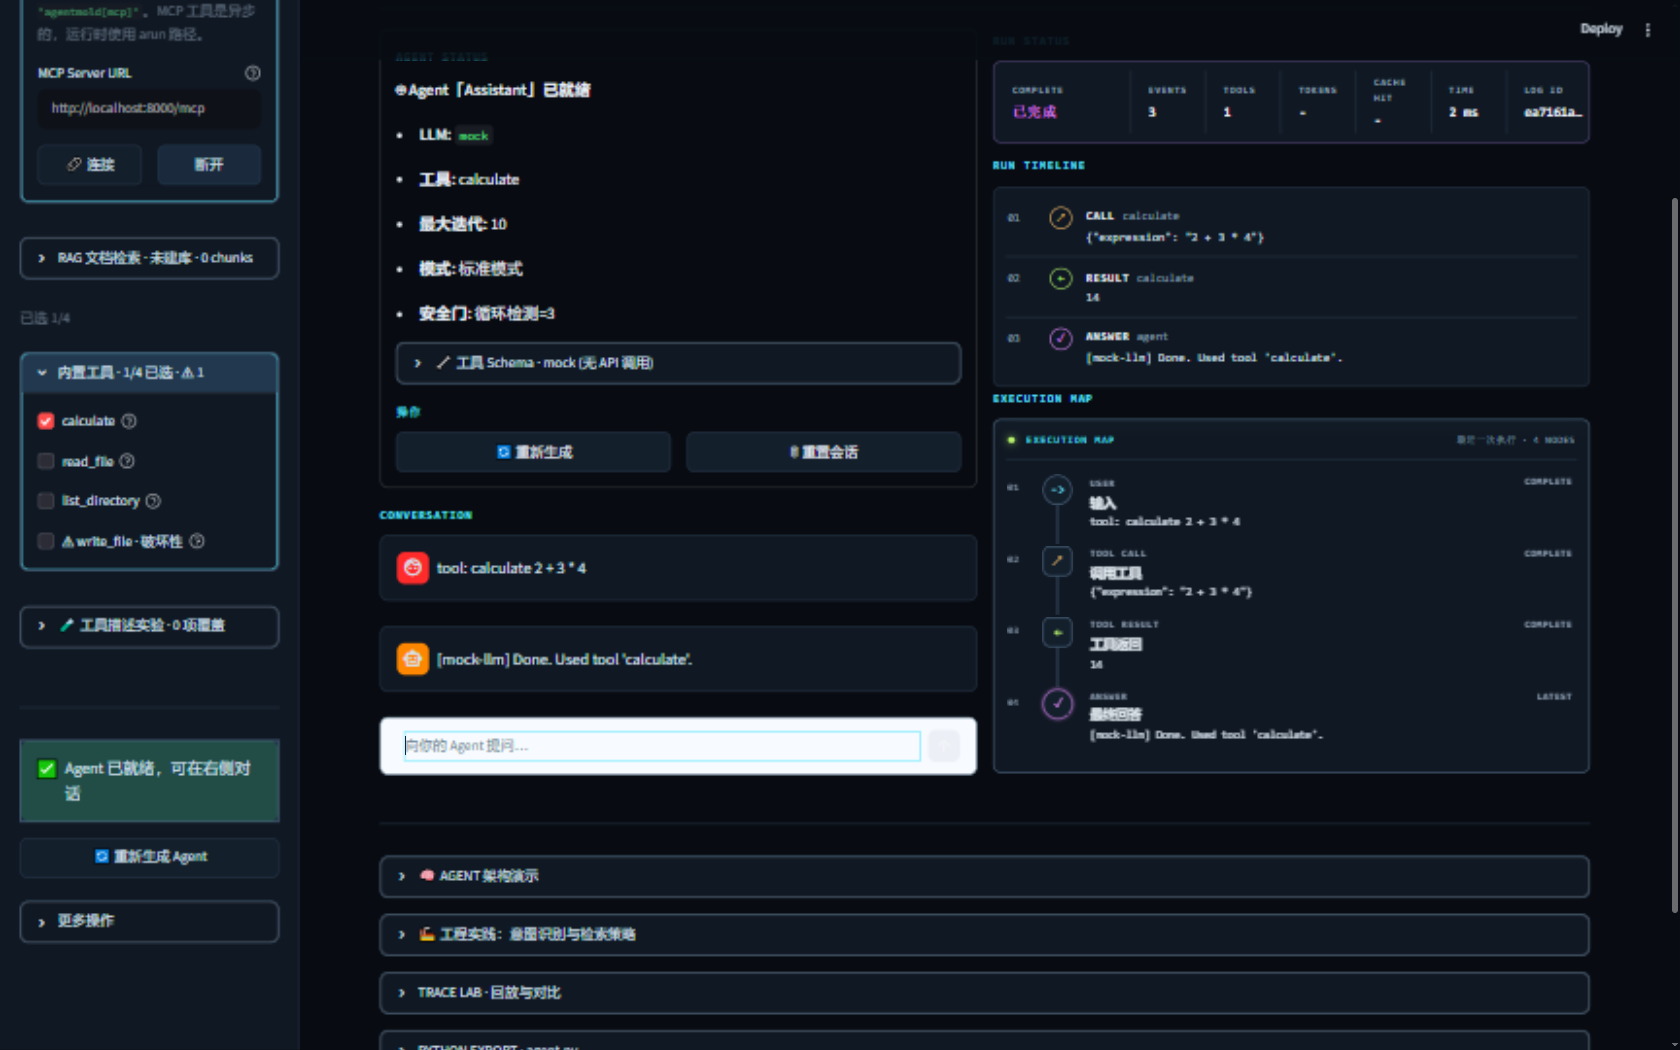
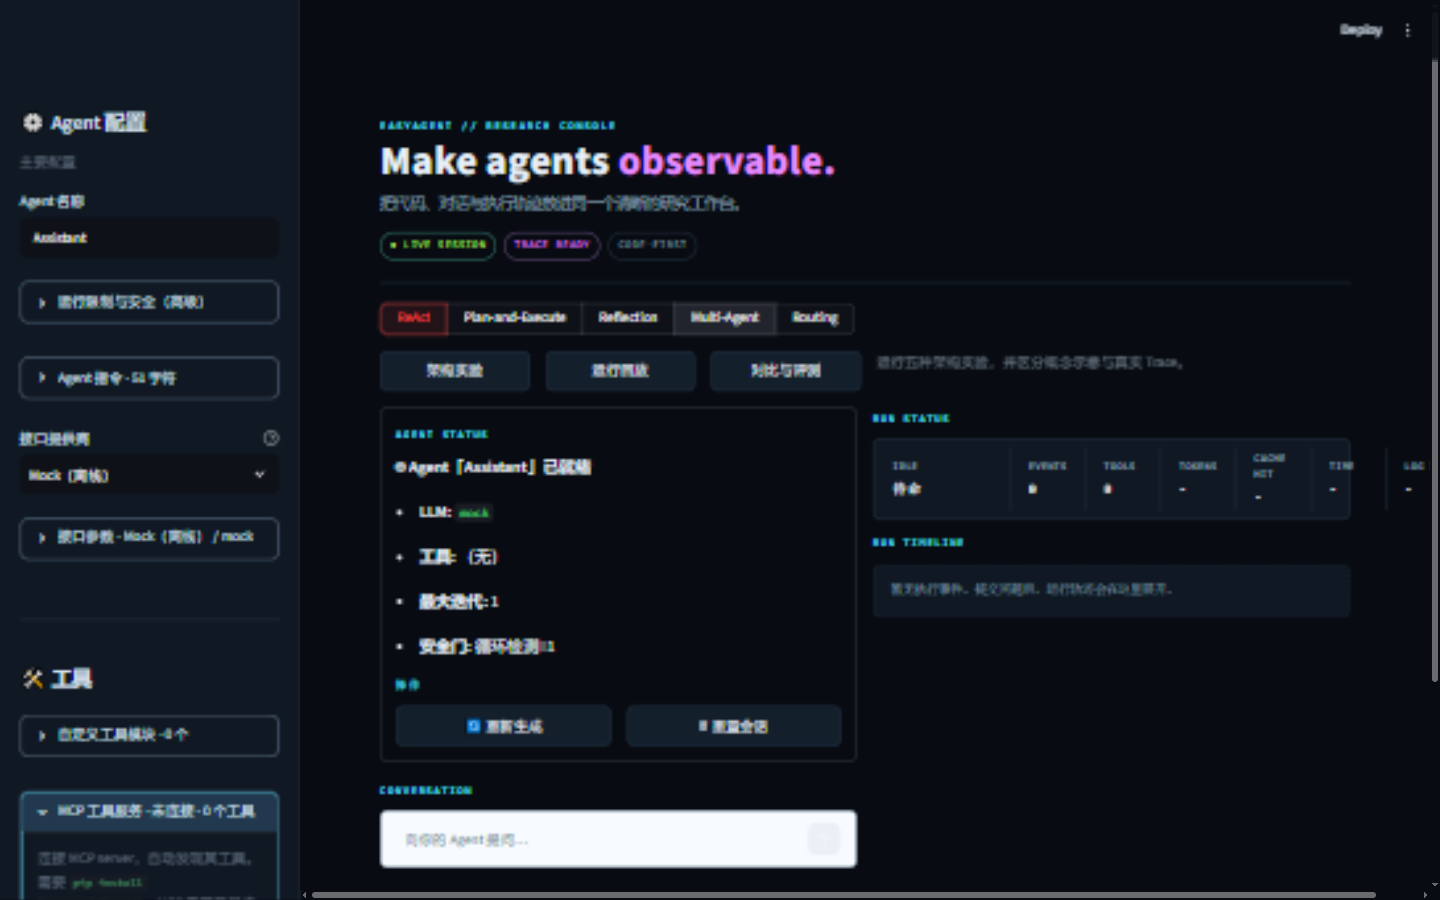
docs(release): document 0.7.0 migration

diff --git a/docs/api.md b/docs/api.md
@@ -53,9 +53,10 @@ The event types are `text_delta`, `tool_call`, `tool_result`, `answer`,
 `approval_request`, and `loop_detected`. Durable Trace v2 events include a one-based model
 `round`. Tool events also include a one-based `call_index` and an internal `execution_id`
 that associates the model request with its result even when the provider call ID is absent.
-`tool_result.status` distinguishes `success`, `error`, and `refused`, with `duration_ms` and
-an optional `error_type`. Existing `id`, `name`, `arguments`, and `content` fields retain their
-original meanings.
+`tool_result.status` currently emits `success`, `error`, or `refused`, with `duration_ms` and
+an optional `error_type`. The public type reserves `policy_denied`, `timeout`, and `cancelled`
+for adapters that can report those outcomes; the core Agent does not currently produce them.
+Existing `id`, `name`, `arguments`, and `content` fields retain their original meanings.
 
 `text_delta` is optional and means a provider
 text chunk, not necessarily one token. Delta events are not stored in `AgentTrace`; the
@@ -193,9 +194,13 @@ for later analysis:
 trace = agent.last_trace
 if trace is not None:
     trace.to_jsonl("runs/experiment.jsonl")
+    trace.export_family("runs/family.jsonl")
 ```
 
-Trace model configuration is redacted by key name for common credentials. Usage counters
+`export_family()` writes the selected parent and all observed descendant traces in parent-first
+order. The JSONL remains compatible with the visual importer; direct runs simply export one run.
+Trace model configuration and export payloads are recursively sanitized for credential keys,
+URL credentials, authorization values, and known secret echoes. Usage counters
 are best-effort because providers expose different response metadata.
 Trace headers also contain the user input, Agent name, and instructions so the visual lab
 can compare prompt and configuration changes. Open the top-level **运行回放** view to import

diff --git a/docs/architectures.md b/docs/architectures.md
@@ -54,8 +54,9 @@ answer. The concept diagram's decision node is not inserted into that trace.
 ## Plan-and-Execute
 
 Split the work into two phases: a **Planner** Agent produces an ordered list of
-steps, then a **Worker** Agent (or the same Agent) executes each step.  This is
-just two `Agent.run()` calls connected by a `for` loop.
+steps, then fresh **Worker** Agents execute each step and a **Synthesizer** combines their
+results. The teaching runner uses five `Agent.run()` calls for its fixed three-step plan,
+connected by an ordinary `for` loop.
 
 ```python
 from agentmold.visual.teaching import run_plan_execute_experiment
@@ -153,7 +154,23 @@ The visual lab uses two deliberately separate modules:
   are prescribed and must not be interpreted as task-solving behavior.
 
 Multi-Agent completeness is an observed fact: a run counts as full collaboration only when
-both specialist tool calls and their correlated child traces exist.
+both specialist tool calls have successful `tool_result` events and both correlated child traces
+finish with `status="completed"`. Missing or failed specialists produce a `partial` experiment.
+
+`TeachingExperiment` JSON uses `experiment_version=1` and records `status` as `completed`,
+`partial`, or `failed`, plus an optional `error`. Live runner functions and `ProgressEvent` remain
+experimental Python APIs even though the visual teaching workflow is shipped and tested.
+
+A downloaded live `example.py` reads the full model configuration from
+`EASYAGENT_LLM_CONFIG`. For example, after installing `agentmold[openai]`:
+
+```bash
+export EASYAGENT_LLM_CONFIG='{"provider":"openai","model":"MODEL_ID","api_key":"..."}'
+python example.py
+```
+
+Keep that environment variable out of shell history and source control. The deterministic export
+needs no provider extra, credential, or network call.
 
 ---
 

diff --git a/docs/capabilities.md b/docs/capabilities.md
@@ -24,7 +24,8 @@ framework than the package provides.
 | Memory | Shipped | Short-term `Memory` is core; named `VectorMemory` collections are an optional dependency. |
 | Trace and evaluation | Shipped | Trace v2 records status, model rounds, structured tool results, usage, and parent/child correlation; Eval v2 supports repeated samples and named trusted-Python metrics. |
 | Visual research lab | Shipped | Streamlit exposes ReAct, Plan-and-Execute, Reflection, Multi-Agent, and Routing; the four composition lessons default to saved real models, keep fixed-response offline demos explicitly separate, and provide replay, comparison, evaluation, and export. |
-| Architecture teaching runners | Shipped | Live runners let model output drive Python control flow; deterministic runners remain for offline teaching. Both create real Agent traces plus separate TeachingEvents without inventing missing branches or child runs. |
+| Architecture teaching workflow | Shipped | The visual workflow runs live or deterministic lessons, preserves completed/partial/failed experiments, and displays real Agent traces plus separate TeachingEvents without inventing missing work. |
+| Teaching runner Python modules | Experimental | `agentmold.visual.teaching` and `agentmold.visual.live_teaching`, their progress callbacks, metadata keys, and experiment JSON schema may change before 1.0. |
 | Python provider/tool extensions | Shipped | Standard entry points provide explicit discovery; extension loading errors are not hidden. |
 | Agent as a tool | Experimental | `agentmold.experimental.agent_as_tool` supports bounded parent/child experiments and correlated traces. |
 | Shared provider conformance matrix | Shipped | Every built-in adapter runs through one offline final-chat and tool-round-trip contract suite. |

diff --git a/CHANGELOG.md b/CHANGELOG.md
@@ -44,14 +44,17 @@ the public API is pre-1.0; experimental APIs may still change between minor rele
 
 - Exported Python never embeds API keys. Live teaching exports read model configuration from
   `EASYAGENT_LLM_CONFIG`; credentials must be supplied through a protected environment variable.
+- Trace and teaching exports recursively sanitize credential keys, URL userinfo/query secrets,
+  authorization values, and known secret echoes, including imported traces before re-export.
 - `agent_as_tool` and the live teaching runners remain experimental surfaces. Multi-Agent is
-  complete only when both specialist calls and successful child traces are observed.
+  complete only when both specialist results and correlated child traces finish successfully.
 
 ### Known limitations
 
 - Live composition lessons require a saved non-Mock provider profile and may incur provider
   cost, latency, rate limits, or provider-specific failures. Use deterministic offline mode for
-  reproducible, credential-free demonstrations.
+  reproducible, credential-free demonstrations. Failed live runs preserve observed progress and
+  partial traces, but cannot recover work that never started.
 - No general coordinator runtime, workflow DSL, or hosted orchestration service is introduced.
 
 ## 0.6.0 - 2026-07-22

diff --git a/ROADMAP.md b/ROADMAP.md
@@ -179,13 +179,13 @@ centralized marketplace.
   `list_tools` / `call_tool` surface as ordinary `Tool` objects over Streamable HTTP.
 - [x] Reuse the `http_tools` SSRF and private-network guards on the MCP transport so
   remote tool servers are subject to the same network policy as built-in HTTP tools.
-- [x] Defend tool poisoning and rug-pull: a tool-source allowlist plus description-change
-  detection (a version fingerprint per tool) flags untrusted or silently changed tools
-  instead of executing them.
+- [x] Surface tool poisoning and rug-pull risk: a tool allowlist limits exposure, while a
+  version fingerprint warns when a known tool description changes. Fingerprint warnings are
+  diagnostic and do not block execution; use the allowlist and confirmation gate to enforce policy.
 
-Release gate: a code-defined Agent can call tools from an external MCP server; an
-untrusted source or a changed tool description is flagged, not silently executed; and the
-run is recorded in the trace like any local tool call.
+Release gate: a code-defined Agent can call tools from an external MCP server; an untrusted
+source can be excluded by allowlist, changed descriptions emit a warning, and the run is recorded
+in the trace like any local tool call.
 
 ## v1.3 - Reproducible retrieval
 

diff --git a/docs/concepts.md b/docs/concepts.md
@@ -57,8 +57,14 @@ unless the tool or deployment environment imposes a stricter boundary.
 |---|---|
 | `text_delta` | A streaming provider emits a non-empty piece of visible assistant text |
 | `tool_call` | A complete provider response has requested a tool |
-| `tool_result` | The Python tool call has completed or returned a handled `ToolError` |
+| `tool_result` | The Python tool call completed, failed, or was refused |
 | `answer` | A complete provider response contains the final answer |
+| `approval_request` | A confirming tool is waiting for the caller's approval decision |
+| `loop_detected` | Repeated identical calls reached the configured guard threshold |
+
+`text_delta` and `approval_request` are transient and are not stored in `AgentTrace`.
+`tool_call`, `tool_result`, `answer`, and `loop_detected` are durable. A `loop_detected` event is
+recorded before `LoopDetectedError` is raised.
 
 `text_delta` means a provider chunk, not necessarily one tokenizer token. It is transient:
 the Agent yields it for display but does not add it to `AgentTrace`; the final `answer` remains

diff --git a/cookbook/README.md b/cookbook/README.md
@@ -15,7 +15,7 @@ workflow DSL or external service.
 | `06_safety_gates.py` | Confirmation, loop detection, and audit log | `python cookbook/06_safety_gates.py` |
 | `07_mcp_tools.py` | MCP tool discovery, allowlist, confirm gate, rug-pull detection | `python cookbook/07_mcp_tools.py` |
 | `08_reproducible_rag.py` | Chunking, vector/BM25/hybrid retrieval, and agent integration | `python cookbook/08_reproducible_rag.py` |
-| `09_agent_architectures.py` | ReAct, Plan-and-Execute, Reflection, and Multi-Agent patterns | `python cookbook/09_agent_architectures.py` |
+| `09_agent_architectures.py` | ReAct, Plan-and-Execute, Reflection, Multi-Agent, and Routing | `python cookbook/09_agent_architectures.py` |
 
 Run recipes from the repository root. Generated files go into the ignored
 `artifacts/cookbook/` directory. To use a hosted model, change only the `llm` argument and

diff --git a/docs/evaluation.md b/docs/evaluation.md
@@ -96,7 +96,8 @@ use no-side-effect canary tools when evaluating unsafe tool intent.
 ## Repeated samples and metrics
 
 `repeats=N` builds a fresh Agent for each sample. Results use case-major, sample-minor order,
-with zero-based `case_index` and `sample_index`. `report.results` contains every sample;
+with zero-based `case_index` and `sample_index`. `report.total` and `report.sample_count` count
+samples, so they can exceed `case_count` when `repeats > 1`. `report.results` contains every sample;
 `report.case_summaries` aggregates repeated samples per case, and
 `report.metric_summaries` aggregates each named metric across the dataset.
 

diff --git a/docs/memory.md b/docs/memory.md
@@ -1,5 +1,9 @@
 # Long-Term Memory Collections
 
+Install `agentmold[memory]` for ChromaDB, NumPy, and the default OpenAI embedding client. The
+OpenAI path requires a valid API key and model ID; inject `embedder=` for a custom or offline
+embedding function instead of making a provider call.
+
 Long-term memory requires an explicit collection name so experiments cannot silently share
 one vector store:
 
